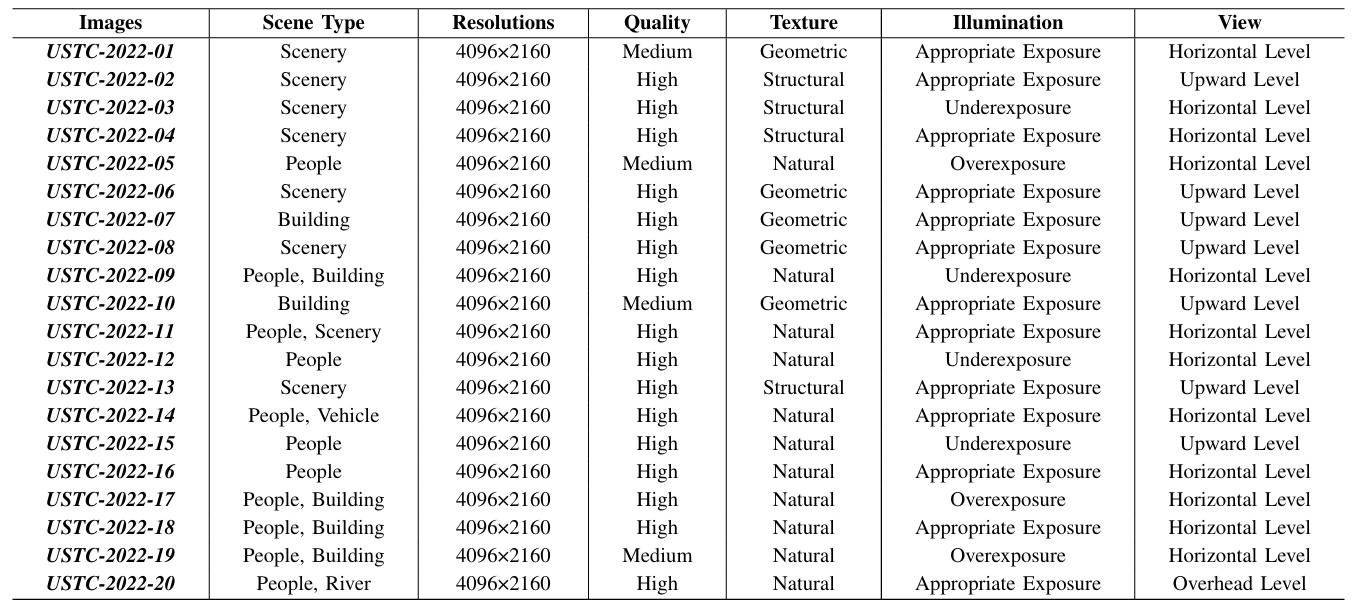
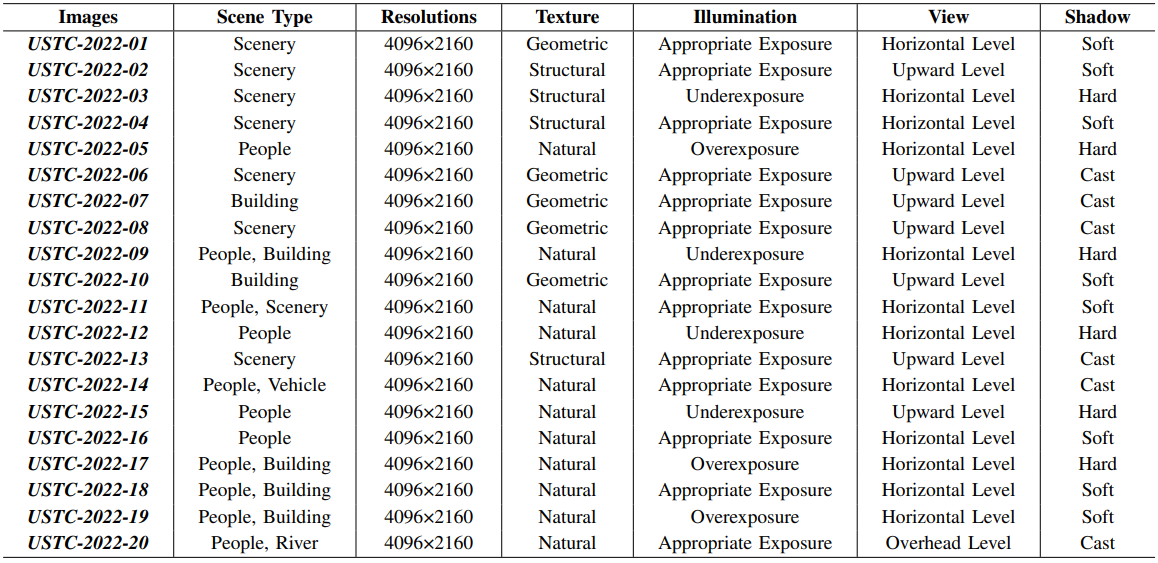
UPDATE: datasets

Changed region(s): [[0.0, 0.0, 0.9948, 0.9964]]

diff --git a/index.html b/index.html
@@ -114,7 +114,8 @@
                                     Li</a>,</span>
                             <span class="author-block"> <a href="https://faculty.ustc.edu.cn/dongeliu/">Dong
                                     Liu</a>,</span><!-- <i class="fas fa-envelope icon" style="font-size: 12px; color: #116eda"></i> -->
-                            <span class="author-block"> <a href="https://scholar.google.com/citations?user=5bInRDEAAAAJ&hl=zh-CN">Feng
+                            <span class="author-block"> <a
+                                    href="https://scholar.google.com/citations?user=5bInRDEAAAAJ&hl=zh-CN">Feng
                                     Wu</a></span>
                         </div>
 
@@ -129,7 +130,8 @@
                             <div class="publication-links">
                                 <!-- PDF Link. -->
                                 <span class="link-block">
-                                    <a href="https://arxiv.org/abs/2409.08481" class="external-link button is-normal is-rounded is-dark">
+                                    <a href="https://arxiv.org/abs/2409.08481"
+                                        class="external-link button is-normal is-rounded is-dark">
                                         <span class="icon">
                                             <i class="ai ai-arxiv"></i>
                                         </span>
@@ -202,28 +204,29 @@
                         <p>
                             Image/video coding has been a remarkable research
                             area for both academia and industry for many years. Testing
-                            datasets, especially high-quality image/video datasets are desirable
-                            for the justified evaluation of coding-related research, practical
-                            applications, and standardization activities. We put forward
-                            a test dataset namely USTC-TD, which has been successfully
-                            adopted in the practical end-to-end image/video coding challenge
-                            of the IEEE International Conference on Visual Communications
-                            and lmage Processing in 2022 and 2023. USTC-TD contains
-                            40 images at 4K spatial resolution and 10 video sequences at
-                            1080p spatial resolution, featuring various content due to the
-                            diverse environmental factors (scene type, texture, motion, view)
-                            and the designed imaging factors (illumination, shadow, lens).
-                            We quantitatively evaluate USTC-TD on different image/video
-                            features (spatial, temporal, color, lightness), and compare it with
-                            the previous image/video test datasets, which verifies the wider
-                            coverage and more diversity of the proposed dataset. We also
-                            evaluate both classic standardized and recent learned image/video
-                            coding schemes on USTC-TD with PSNR and MS-SSIM, and provide
-                            an extensive benchmark for the evaluated schemes. Based on
-                            the characteristics and specific design of the proposed test dataset,
-                            we analyze the benchmark performance and shed light on the
-                            future research and development of image/video coding. All the
-                            data are released online: <a href="https://esakak.github.io/USTC-TD">https://esakak.github.io/USTC-TD</a>.
+                            datasets, especially high-quality image/video datasets are desirable for the justified
+                            evaluation of coding-related research,
+                            practical applications, and standardization activities. We put
+                            forward a test dataset namely USTC-TD, which has been
+                            successfully adopted in the practical end-to-end image/video
+                            coding challenge of the IEEE International Conference on Visual
+                            Communications and lmage Processing (VCIP) in 2022 and 2023.
+                            USTC-TD contains 40 images at 4K spatial resolution and 10
+                            video sequences at 1080p spatial resolution, featuring various
+                            content due to the diverse environmental factors (e.g. scene type,
+                            texture, motion, view) and the designed imaging factors (e.g.
+                            illumination, lens, shadow). We quantitatively evaluate USTCTD on different image/video
+                            features (spatial, temporal, color,
+                            lightness), and compare it with the previous image/video test
+                            datasets, which verifies the wider coverage and more diversity of
+                            the proposed dataset. We also evaluate both classic standardized
+                            and recent learned image/video coding schemes on USTC-TD
+                            with PSNR and MS-SSIM, and provide an extensive benchmark
+                            for the evaluated schemes. Based on the characteristics and
+                            specific design of the proposed test dataset, we analyze the
+                            benchmark performance and shed light on the future research
+                            and development of image/video coding. All the data are released
+                            online: <a href="https://esakak.github.io/USTC-TD">https://esakak.github.io/USTC-TD</a>.
                         </p>
                     </div>
                 </div>
@@ -250,7 +253,7 @@
                         <p>
                             Considering the various content elements, we combine
                             different environmental conditions (scene type, texture, view, etc) and captured conditions
-                            (resolution, quality, illumination, etc)
+                            (resolution, illumination, lens, shadow, etc)
                             in the collection process.
                         </p>
                         <center><img src="static/images/datasets/2022.webp" border="0" width="100%"></center>
@@ -653,7 +656,8 @@
                 Communications and lmage Processing (VCIP) 2022 and
                 2023.
             </p><br>
-            Thanks to the <a href="https://ieee-dataport.org/"> IEEE Dataport</a> , we have submitted the data to this open-sourced dataset website 
+            Thanks to the <a href="https://ieee-dataport.org/"> IEEE Dataport</a> , we have submitted the data to this
+            open-sourced dataset website
             for the convenient access of the IEEE community's researchers.
         </div>
     </section>
